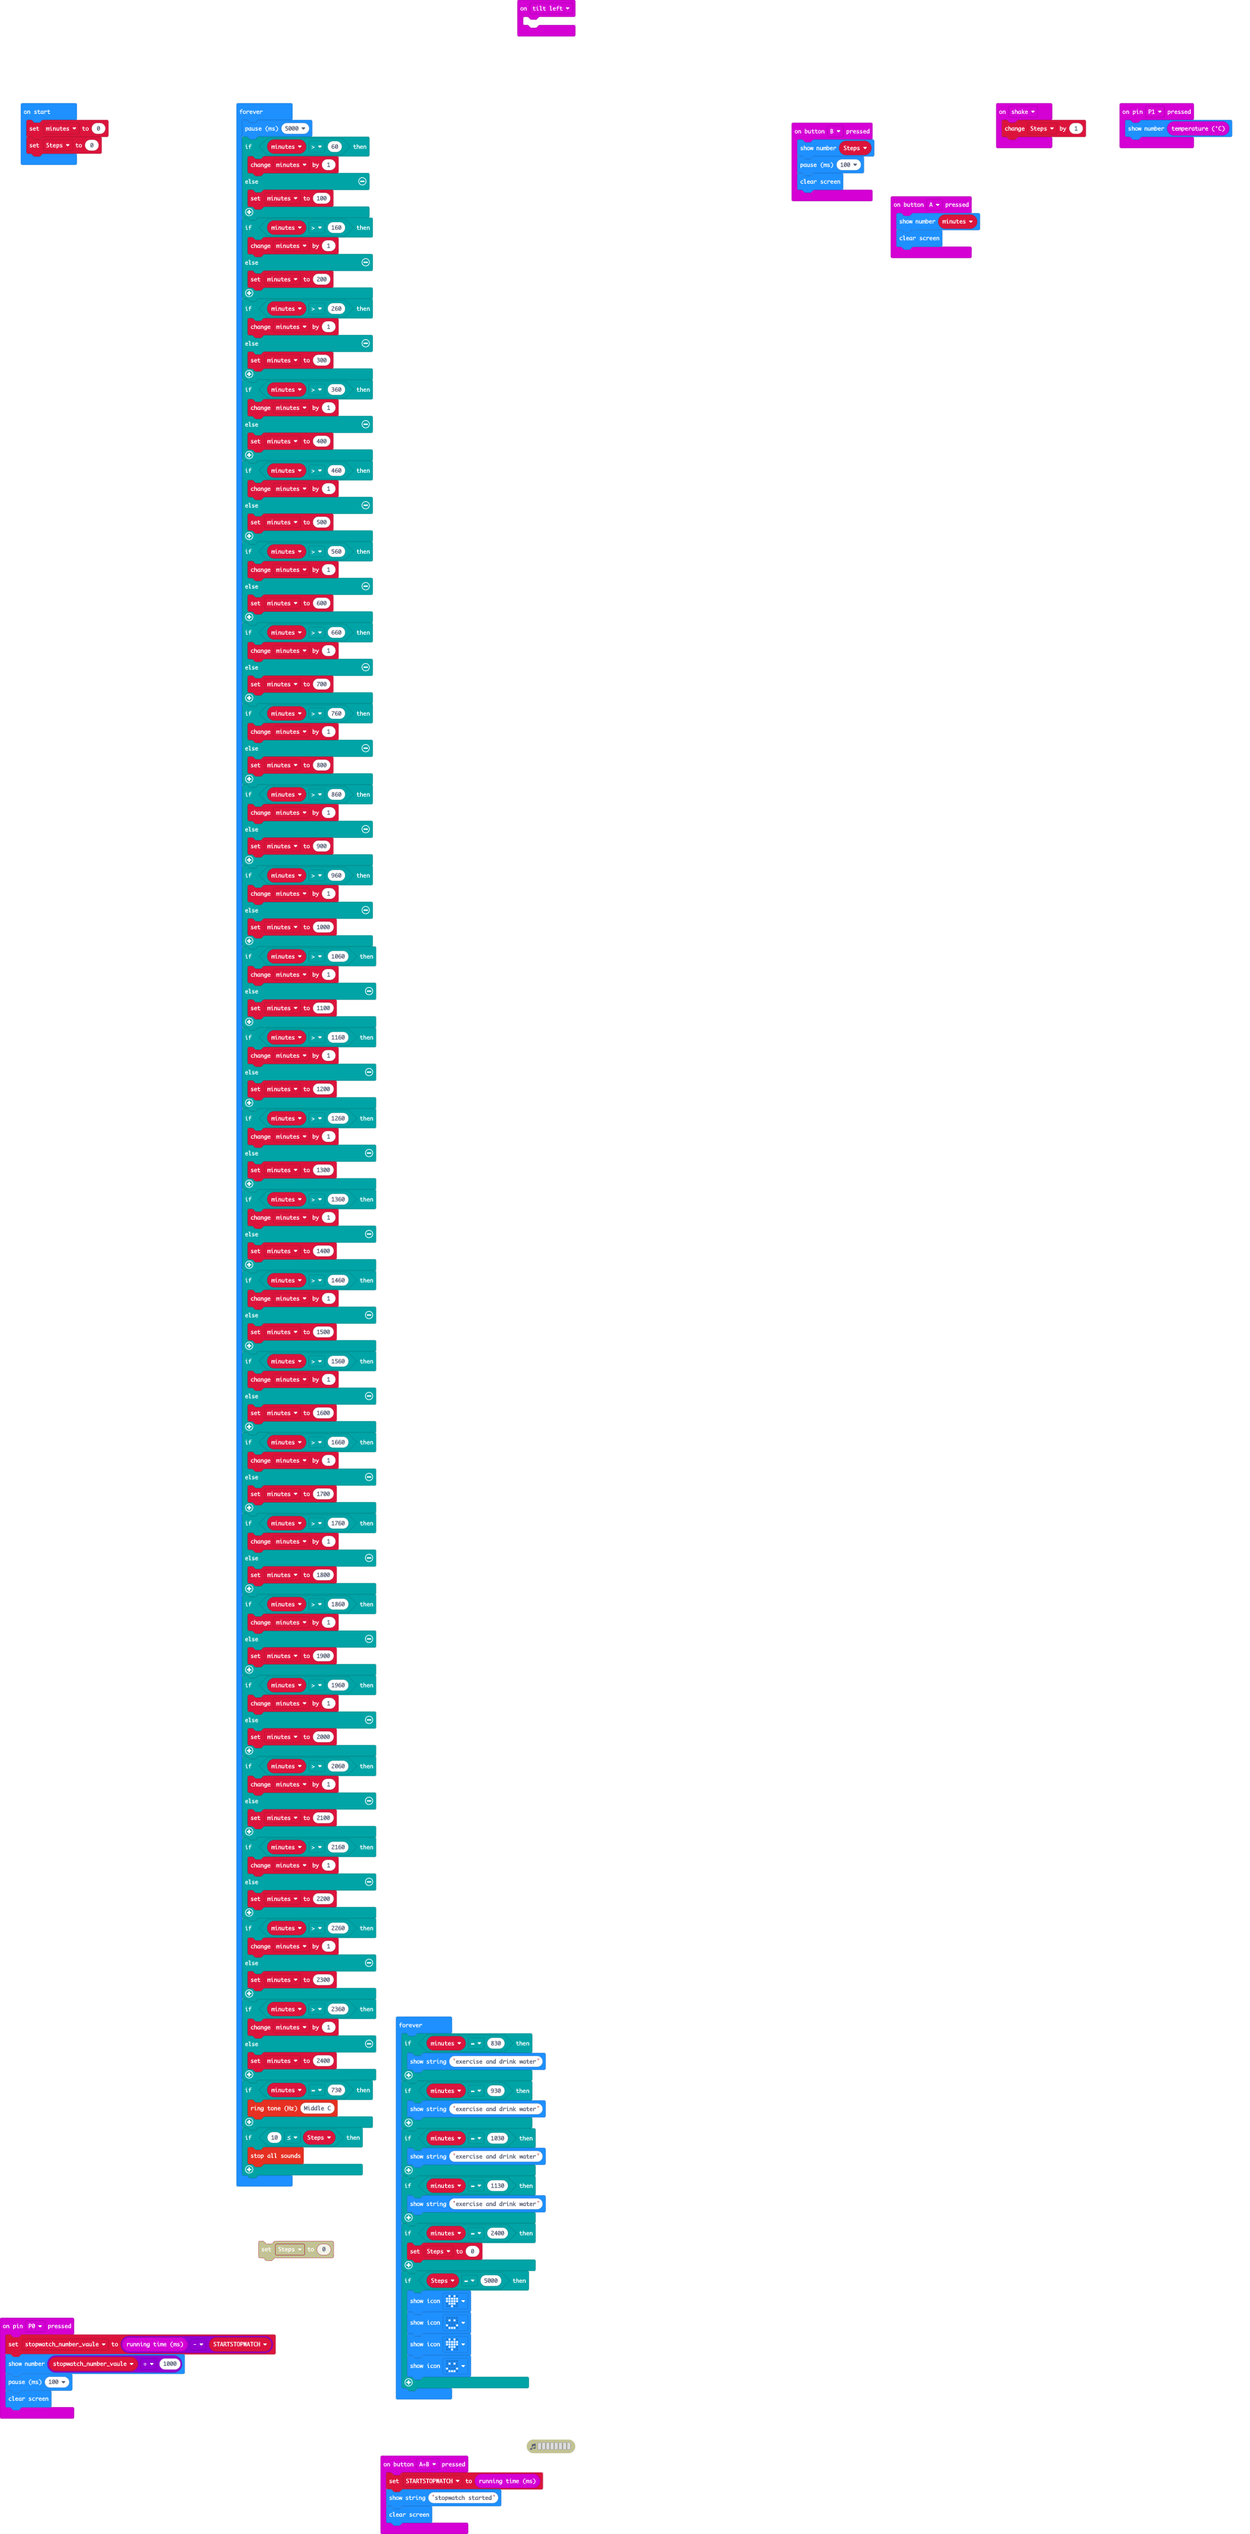
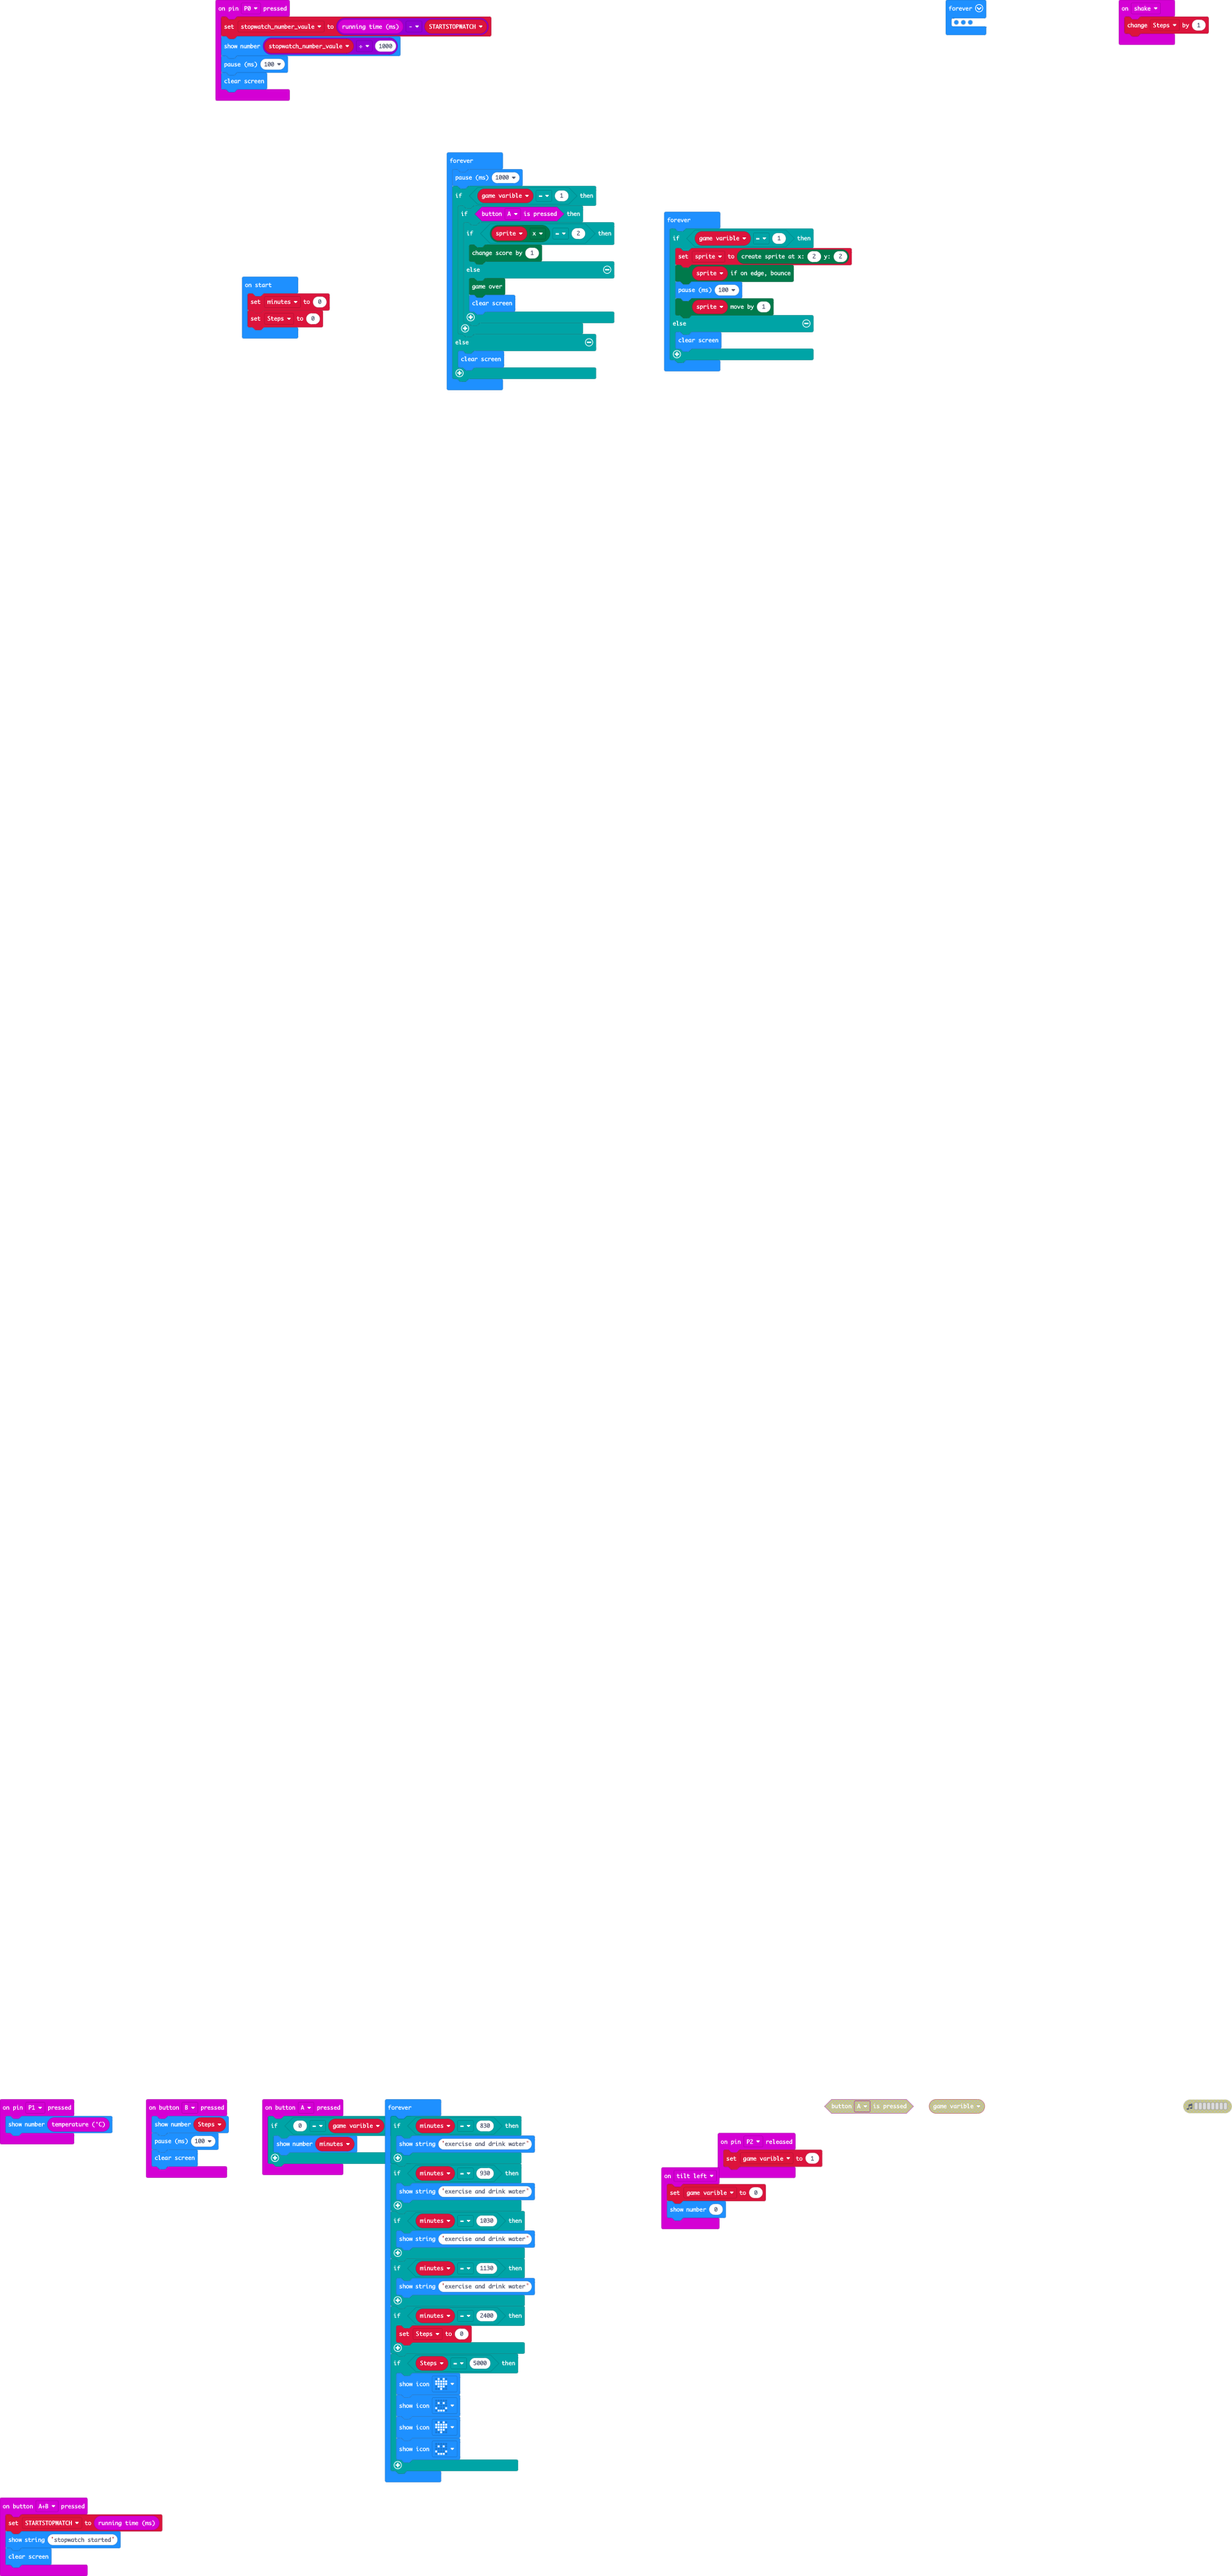
Update main.blocks, main.ts

diff --git a/main.ts b/main.ts
@@ -4,12 +4,17 @@ input.onPinPressed(TouchPin.P0, function () {
     basic.pause(100)
     basic.clearScreen()
 })
+input.onPinReleased(TouchPin.P2, function () {
+    game_varible = 1
+})
 input.onButtonPressed(Button.A, function () {
-    basic.showNumber(minutes)
-    basic.clearScreen()
+    if (0 == game_varible) {
+        basic.showNumber(minutes)
+    }
 })
 input.onGesture(Gesture.TiltLeft, function () {
-	
+    game_varible = 0
+    basic.showNumber(0)
 })
 input.onButtonPressed(Button.AB, function () {
     STARTSTOPWATCH = input.runningTime()
@@ -27,6 +32,8 @@ input.onPinPressed(TouchPin.P1, function () {
 input.onGesture(Gesture.Shake, function () {
     Steps += 1
 })
+let sprite: game.LedSprite = null
+let game_varible = 0
 let STARTSTOPWATCH = 0
 let stopwatch_number_vaule = 0
 let Steps = 0
@@ -160,6 +167,31 @@ basic.forever(function () {
     }
     if (10 <= Steps) {
         music.stopAllSounds()
+    }
+})
+basic.forever(function () {
+    basic.pause(1000)
+    if (game_varible == 1) {
+        if (input.buttonIsPressed(Button.A)) {
+            if (sprite.get(LedSpriteProperty.X) == 2) {
+                game.addScore(1)
+            } else {
+                game.gameOver()
+                basic.clearScreen()
+            }
+        }
+    } else {
+        basic.clearScreen()
+    }
+})
+basic.forever(function () {
+    if (game_varible == 1) {
+        sprite = game.createSprite(2, 2)
+        sprite.ifOnEdgeBounce()
+        basic.pause(100)
+        sprite.move(1)
+    } else {
+        basic.clearScreen()
     }
 })
 basic.forever(function () {
